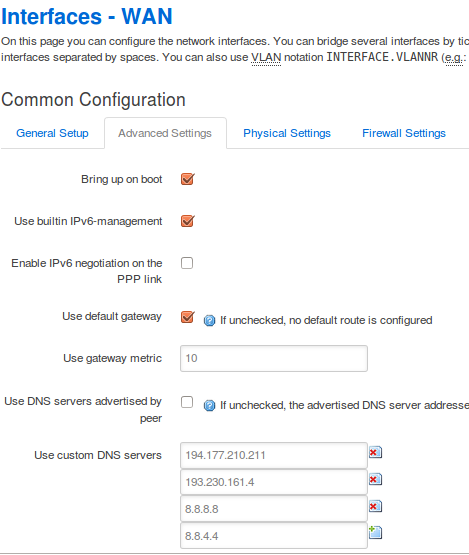
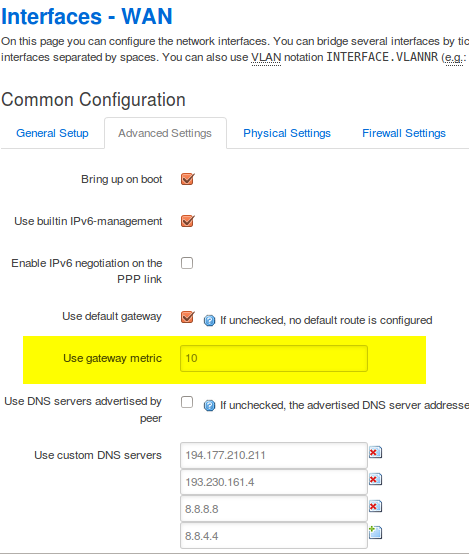
added blog posts for griggi setup, sqm + load balance, AP setup and printer setup in separate inter-linked blogs

Changed region(s): [[0.0299, 0.582, 0.9254, 0.7045]]

diff --git a/_layouts/post.html b/_layouts/post.html
@@ -1,6 +1,30 @@
 ---
 layout: default
 ---
+<style>
+  img { border : 0.5px solid #bababa; max-width:100%; }
+  blockquote {
+    min-height: 20px;
+    padding: 19px;
+    margin-bottom: 20px;
+    background-color: #f5f5f5;
+    border: 1px solid #e3e3e3;
+    border-radius: 4px;
+    -webkit-box-shadow: inset 0 1px 1px rgba(0, 0, 0, .05);
+    box-shadow: inset 0 1px 1px rgba(0, 0, 0, .05);
+    font-size: 80%;
+  }
+  .alert {
+         color: #8a6d3b;
+         background-color: #fcf8e3;
+         border-color: #faebcc;  
+         padding: 15px;
+         margin-bottom: 20px;
+         border: 1px solid transparent;
+         border-radius: 4px;
+    font-size: 80%;
+  }
+</style>
 <article {% if page.feature-img %}class="feature-image"{% endif %}>
   <header style="background-image: url('{{ site.baseurl }}/{{ page.feature-img }}')">
     <h1 class="title">{{ page.title }}</h1>

diff --git a/_posts/2016-12-02-griggi-setup.md b/_posts/2016-12-02-griggi-setup.md
@@ -3,10 +3,6 @@ layout: post
 title: How to setup Griggi on your Openwrt router
 excerpt: Griggi can be installed on any Openwrt router. Follow the steps on this article to do so.
 ---
-<p style="text-align:center">
-	<i class="fa fa-wrench fa-6" style="font-size: 10em; color: #62cb31"></i>
-</p>
-
 Griggi is developed as package(s) that can be compiled & installed on any unix based operating system. Openwrt seems to be the most popular flavor of opensource router OS now a days, so we provide Griggi pre-bundled Openwrt firmware image that you can directly flash on your Openwrt router. 
 
 > To know if your router supports Openwrt, head over to [Openwrt Table of Hardware](https://wiki.openwrt.org/toh/start) & search for your router model
@@ -23,9 +19,6 @@ To get Griggi pre-bundled Openwrt firmware image on your router
 * head over to [app.griggi.com](http://app.griggi.com) & login with your phone number
 * navigate to 'SETUP' option on the left sidebar
 * choose 'Add a Router', enter details & download firmware for your newly added router
-<style>
-  img { border : 0.5px solid #bababa; max-width:100%; }
-</style>
 <img src="/images/setup/login.png" style="width:400px;">
 <img src="/images/setup/setup.png" style="width:200px"><br/>
 <img src="/images/setup/router-list.png" style="width:300px;">
@@ -44,10 +37,14 @@ Power your router. Connect to it through internet cable or WiFi. Navigate to the
 > If it is a new router, the login credentials are on the sticker at the back of the router
 
 Post login, locate the **firmware upgrade** page as shown below. Upload the firmware downloaded in previous step. 
+<div class="alert">
+ <p>Ensure that power does not go off while the firmware uploads. If it does, it might <i>brick</i> your router.</p>
+ <p>There is a high chance you have TP Link router if you following this guide. You can debrick your router by following <a href="http://www.trishtech.com/2015/06/unbrick-tplink-wr740n-wifi-router" >this guide</a>.</p>
+ <p>Feel free to email us at team.griggi@gmail.com if you need any personalized help.</p>
+</div>
 
 <img src="http://dslrcontroller.com/guide-wifi_mr3040/setup-flash.png" style="width: 600px"><br/> 
 
-> Ensure that power does not go off while the firmware uploads. If it does, it might *brick* your router
 
 Post flasing the new firmware, your router will reboot. Wait for the WiFi to come back up. There is a WiFi named **griggi** to which you can go ahead & connect.
 
@@ -57,13 +54,15 @@ Post flasing the new firmware, your router will reboot. Wait for the WiFi to com
 
 A few configuration need to be manually done to router before you start to use Griggi. 
 
-> If you navigate to **http://192.168.7.1** & dont see login page, we have not bundled luci in the Openwrt image as the router has too low flash space. You may ignore the rest of the configuration steps. 
-
 #### 1. Setup admin password ####
 
 Navigate to htttp://192.168.7.1, you will see Openwrt login page. There is no password by default. Setup a password first thing.
 
 <img src="/images/setup/set-password.png" style="width: 600px"><br/> 
+
+If you dont see a login page at http://192.168.7.1 - that means we did not bundle Luci (Openwrt admin dashboard), mostly because the router flash size is too small to support that. Openwrt has, by default, telnet enabled. Telnet to your router with `telnet 192.168.7.1`, set password by running `passwd` command & you have the password changed. 
+
+Openwrt disables telnet once you have set root password. You can now ssh into the router with `ssh root@192.168.7.1` & the password you have set.
 
 #### 2. PPPoE settings (selectively applicable) ####
 
@@ -78,55 +77,50 @@ Griggi does not work well with another authentication system. There is a way for
 
 * Enter the username & password provided by the ISP in the appropriate field & save the settings. 
 
+* For those with **no admin dashboard**, ssh into the router & edit `/etc/config/network` file. The wan port by default is set to **dhcp**. Update proto to **pppoe** & append username & password provided by your ISP as below.
+
+<blockquote><small>
+<pre>
+  config interface 'wan'
+    .
+    .
+    <strike>option proto 'dhcp'</strike>
+    option proto 'pppoe'
+    option username 'xxxx'
+    option password 'xxxx'
+</pre>
+</small></blockquote>
+
 > To test if your settings are working, plug in the ISP line in the WAN interface, connect to the WiFi (or through wire if you are on 1043ND), you should see griggi authentication popup. If it does not, try manually going to griggi.com on the browser & you should see the login page.<br/><br/> If none of this happen, either there is software or hardware configuration problem. Sort this out before proceeding.
 
 ### 4. Advance Settings ###
 
-> Advance settings are applicable to only those devices that have router dashboard showing up at http://192.168.7.1
+To configure traffic prioritzation & load balancing on your Griggi router, head over to [this blog post](/2016/12/02/traffic-prioritization-load-balance.html) 
 
-If you have come this far, congrats. You have Griggi router setup in a usable state. You will be able to limit data at user level. But there are a few other cool things that Griggi can do. 
+If you have a big setup, you might be looking to setup Access Points (hence referred to AP) to make your WiFi reach everywhere. Moreover, each router comes with limited number of people it can support on its WiFi. So you might be looking to add more such devices. Also, if you have TP Link 1043ND, you need at least one AP for the WiFi signal to be available. Head over to [this post](/2016/12/11/how-to-extend-wifi.html) to do so.
 
-* automatically prioritizing traffic so that bulk traffic (download, youtube, torrents) dont clog your internet bandwidth
-* Connect multiple ISPs for load balancing & failover to have 100% internet uptime.
+### 5. Allocate Data ###
 
-#### 1. Configure Prioritization ####
+The settings you did above are on Griggi router. Most of the times, you do not need to edit any of the above stuff & they are good for one time setup. 
 
-You need to be aware of your general upload & download speed of your ISP which prioritization software uses to avoid bandwidth clogging. 
+What you need to on regular basis - is to keep an eye on data usage at user level, first time data allocation post Griggi setup to all the folks, adding data for folks who come in later, deleting entry for folks who leave the premise etc. 
 
-If you are not sure, try running speedtest & note upload and download values. 
+This can be done on Griggi dashboard - [app.griggi.com](http://app.griggi.com). By default whoever sets up the Griggi router is the admin. Once you login into your Griggi dashboard, you see all the data in your account from which you can give data to other folks **through their mobile number**.  Look for **Give Data** button on the dashboard.
 
-* Navigate to **Network** -> **SQM QoS**
+By default, when a new device connects to Griggi WiFi, there is a popup that comes (like how you see in Airport) where the user is suppose to enter his phone number, verify OTP, set his email & password. If you as admin has allocated data to the phone number, his internet will work, else it wont. He gets his own dashboard, pretty much like yours, on which he can view how much data he has consumed. The consumed data resets to 0 at the start of billing cycle. 
 
-<img src="/images/setup/sqm-qos-speed.png" style="width: 400px"><br/>
+> The login on a device needs to be done only once. So unlike a cafe or airport when you see a login screen everytime you enter the premise, Griggi router identifies a device on which login is done already & WiFi connects seamlessly like home/office WiFi
 
-* Enable SQM
+Some old OS dont show popup. Also, the device will not get a popup if connected through LAN interface. In that case, the user need to manually go to http://griggi.com to login. 
 
-* Figure which interface is the WAN interface by navigating to Network -> Interfaces. It usually is eth0 or eth1. Select the WAN interface in SQM.
+By default, the device once identified against a phone number, gets tied to the phone number. The data consumption is aggregate of all devices that belong to the user. The user is identified by his phone number. During onboarding, the user sets his email & its easier for you as admin to identify the user based on his email (than phone number). 
 
-* Specify download & upload speed in kbps. 1 Mbps should go as 1000. Save settings. 
+On data allocation to a user, he gets SMS notification. Once a user data is over, he also gets a SMS notification. Email notification is sent to the user on every GB of data consumed so that he stays aware of his usage. At any time, the user could head over to his Griggi dashboard to view his current usage. 
 
-> To test if your prioritization is configured right, launch a terminal & run a continuous ping to google.com . Notice the delay in ping. Start a long download, youtube video or speedtest. The delay in ping should not increase significantly. Neither there should be any ping packet drops.<br/><br/>You can run the same test after disabling SQM. You should see difference in ping times.
+Like admin, a user can give data to any other user from his quota. By default, the admin gets all the FUP quota from which he assign data to folks. The same flow applies to the users who eventually give data from their quota to others. Total data in the system stays constant & decided by the FUP set by the admin while adding new router. 
 
+Enough of gyan. Its time for you to allocate data to folks. Remember, there is a guest mode too that you can activate when you have too many folks checking in & you dont want to take hassle of allocating data to each user.
 
-#### 2. Configure Load Balance ####
+Happy 'Griggi'ing . 
 
-You can plug 2 internet lines to a Griggi router. The traffic gets divided on two lines based on metric(weight) that you set on each of the wan interface. Eg. if one interface support 100 Mbps speed & the other 10 Mbps, you should put metric 10 for 100 Mbps line & 1 for 10 Mbps line. 
-
-In case if one of the internet line goes down, all traffic starts to route through the other line. 
-
-> In Griggi router Load Balancer is enabled by default. 
-> The first LAN port (port marked 1) is the secondary internet port which we have named as WWAN.
-> All you need to do is follow below steps to assign metrics to WAN and WWAN.
-
-* Setup interface metric by navigating to **Networks** -> **Interfaces** -> WAN/WWAN -> Advanced Settings . Set **Use gateway metric** for the appropriate metric value for the interface.
-
-<img src="/images/setup/set-metric.png" style="width: 400px"><br/>
-
-> To test if load balance is configured right, plug internet lines in both WAN & WWAN ports. 
-
-* Navigate to **Network** -> **Load Balance**
-
-> The Load Balance on router dashboard should show both interface green. 
-
-<img src="/images/setup/mwan-status.png" style="width: 400px"><br/>
-
+> If you have printers, internal server or IoT devices in your setup, they would need some configuration on Griggi for them to work. Steps are on [this blog post](/2016/12/02/griggi-printer-port-forward.html)

diff --git a/_posts/2016-12-11-how-to-extend-wifi.md b/_posts/2016-12-11-how-to-extend-wifi.md
@@ -1,0 +1,74 @@
+---
+layout: post
+title: How to Setup Access Points to extend WiFi range
+excerpt: Access Point setup is needed to cover a space that can not be entirely covered by one WiFi device alone. This blog talks about setting up Access Points with a Griggi router but steps are generic enough & will work with any router.
+---
+
+Access Points (also referred as AP) are devices that are hooked to the main router (through wire or wirelessly) & solely work to either extend WiFi network or support more number of devices than a single router/access point can support. 
+
+AP are also called **wireless or wired bridge** in more technical terms. 
+
+Unlike office or large corporates or WiFi enabled institutes that have an extensive AP deployment, it can be done for small office or even your home. Typical usecase is your main router being set in a hall/room whose WiFi does not reach to yourroom that is upstairs. You could setup an AP somewhere between, hook it up wirelessly (or with wire) to the main router & eventually this AP will extend the WiFi for your rooms that were earlier could not be reached by your router.
+
+APs are dumb device that do only WiFi extending. All other network related things like IP assignment, traffic handling, NAT etc is done by the router itself. Some APs do provide a way to limit bandwidth at device level etc in enterprise grade APs, but guess that is something your network consultant will be able to guide you through. 
+
+### Types of APs
+
+1. **Enterprise Grade** - these are devices explicitly sold as Access Point. [Ubiquiti UnFi series](https://www.ubnt.com/unifi/unifi-ap/) is one good range of AP that starts at around $100 . One AP is able to take around 100 devices. 
+
+2. **Router converted to AP** - you could convert any (home) router to work as AP. The advantage of AP configuration is, you could wirelessly extend the WiFi network which you will not be in the default state. 
+
+### AP setup 
+
+The AP needs connection to main router through a ethernet wire or without it (wireless). The wired setup has **advantage of high speed**. If you have an internet speed > 50-60 Mbps, you should go for wired setup as the traffic between router & AP will get throttled to that value because of the speed limit in 2.4 Ghz WiFi channel. 
+
+The wireless setup has advantage that there is no issue of laying cable connecting the router to the AP. Although, you need to ensure that an AP has WiFi reach from at least another AP which in-turn has access to the router (directly or through another AP). Else, you might have a set of APs that might be able to interact with each other but not able to send/receive traffic from the router. 
+
+Each AP can have its own WiFi SSID & password. Usually, its advised to keep the same SSID & password across APs as it will lead to less confusion for your users to decide which WiFi to connect to. 
+
+**1. Wired AP setup (wired bridge)**
+
+> The wired AP should be connected to main router **through one of the LAN port of the main router**
+
+If you have Enterprise grade APs, you are set here. They usually come with one port & you need to just jack in the ethernet cable into it. There could be multiple ports too in which you need to figure out the right one. 
+
+If you have a consumer grade router that you want to convert & use as wired AP, you first need to **disable DHCP** (which in turn will disable NAT also) on the router. You should be able to do the same by logging into router admin dashboard. 
+
+> Once you have disabled DHCP on your router, you will not get IP once you connect to the router WiFi. Hence there is no way to reach admin dashboard except to reset your router. Most routers have a reset button or pin hole to do so.  
+
+You have to connect ethernet wire into **one of the LAN ports** & not WAN port of the newly turned router turned AP.
+
+Note that you could still use router without DHCP disabling, in which case, the wire from the router to the AP is plugged into the WAN port. In regular setup, this would just work fine. 
+
+> With Griggi on the main router, the setup where DHCP isnt disabled & wire plugged into the WAN port is going to hurt you. Reason being, for the data accounting at user level to work, the mac address of the connecting device should reach Griggi router. In this setup, the Griggi router sees the mac address of the AP router & hence whoever logs in first time on the AP WiFi, all traffic on this AP router will start to get reflected on that person account. 
+
+**Note** - to **test wired bridging** with Griggi router, you should connect to the AP WiFi with a device *that has already been connected to Griggi WiFi before*. If you still see a login page, that means there is a configuration issue. To double check, look at the mac address in the login page url. The mac address should be of the AP. 
+
+**2. Wireless AP setup (wireless bridge)**
+
+This mode is usually discouraged in enterprise AP setup. If you investing into enterprise AP, the assumption is, you are aiming at providing high speed internet & as explained above, hooking up AP to the main router through WiFi is going to throttle internet speed. 
+
+Usually this setup is preferred with the cheap home router turned AP, typically because you are interested in extending WiFi without the hassle of wiring & not worrying much about speed. 
+
+Most of the home routers come with **WDS client setup**. WDS stands for wireless distribution system. Your main router to which you are going to hookup the AP should have WDS support turned on. This is a one step process & preferred process to enable wireless bridging. Log into your router dashboard & you should see this option under 'Wireless' section . You should see an option to scan available WiFi. Select your main router WiFi among the scan result (you would need to provide the main WiFi password) & once you have done this, you are set.
+
+<img src="/images/setup/wds-bridging.png" style="width:800px"/><br/>
+
+> Its a little tricky to test wireless bridging as both main router & the AP has the same WiFi name. You can either install the 'Wifi Analyzer' android app. Open the app & select 'channel graph' to see the graph of all WiFi SSIDs. Your WiFi should show up twice on the graph.  
+
+<img src="/images/setup/wifi-analyzer.jpg" style="width:200px"/><br/>
+
+The other way you could test is to go to a location where you had earlier not received the WiFi signal from the main router but can potentially get the WiFi from the AP. 
+
+
+### Running out of ports in main router ?
+
+If you have done wired setup, you would soon realize that if you are connecting APs to the main router, you could only connect APs as many as LAN port available on your main router. 
+
+To connect more APs, you could try one of the setup
+
+1. You can connect a new AP to one of the LAN port of existing AP. You do not need to draw wire from the router all the time.
+
+2. You could get a switch. They cost as less as $5 in the market. You could connect one port of the switch from the LAN port of the router & rest of the ports to one AP each. 
+
+> You need to note that you can not have wires > 100m in length between router & AP or between 2 APs, as it would lead to heavy signal loss. You should either get an AP or a switch within less than 100m hop to counter this problem.

diff --git a/_posts/2016-12-02-traffic-prioritization-load-balance.md b/_posts/2016-12-02-traffic-prioritization-load-balance.md
@@ -1,0 +1,46 @@
+---
+layout: post
+title: Traffic Prioritization & Load Balance on Griggi Router
+excerpt: Some of the advance features that Griggi router support need manual configuration. This post talks about those steps.
+---
+
+If you have come this far, congrats. You have Griggi router setup in a usable state. You will be able to limit data at user level. But there are a few other cool things that Griggi can do. This blog post will let you do those setup.
+
+* automatically prioritizing traffic so that bulk traffic (download, youtube, torrents) dont clog your internet bandwidth
+* Connect multiple ISPs for load balancing & failover to have 100% internet uptime.
+
+> Note that not all Griggi routers are capable of doing the advance things above. If you have a Griggi router that does not have router dashboard coming up at http://192.168.7.1, your router probably will not support the features below as the space on the router is too less to bundle some of these features.
+
+#### 1. Configure Prioritization ####
+
+You need to be aware of your general upload & download speed of your ISP which prioritization software uses to avoid bandwidth clogging. 
+
+If you are not sure, try running speedtest & note upload and download values. While filling upload & download values below, fill 90% of the values you got from speedtest. Eg. if download speed shows up as  
+
+* Navigate to **Network** -> **SQM QoS**
+
+<img src="/images/setup/sqm-qos-speed.png" style="width: 400px"><br/>
+
+* Enable SQM
+
+* Figure which interface is the WAN interface by navigating to Network -> Interfaces. It usually is eth0 or eth1. Select the WAN interface in SQM.
+
+* Specify download & upload speed in kbps. 1 Mbps should go as 1000. Save settings. 
+
+> To test if your prioritization is configured right, launch a terminal & run a continuous ping to google.com . Notice the delay in ping. Start a long download, youtube video or speedtest. The delay in ping should not increase significantly. Neither there should be any ping packet drops.<br/><br/>You can run the same test after disabling SQM. You should see difference in ping times.
+
+
+#### 2. Configure Load Balance ####
+
+You can plug 2 internet lines to a Griggi router. The traffic gets divided on two lines based on metric(weight) that you set on each of the wan interface. Eg. if one interface support 100 Mbps speed & the other 10 Mbps, you should put metric 10 for 100 Mbps line & 1 for 10 Mbps line. 
+
+In case if one of the internet line goes down, all traffic starts to route through the other line. 
+
+In Griggi router Load Balancer is enabled by default. The first LAN port (port marked 1) is the secondary internet port which we have named as WWAN. All you need to do is follow below steps to assign metrics to WAN and WWAN.
+
+* Setup interface metric by navigating to **Networks** -> **Interfaces** -> **WAN/WWAN** -> **Advanced Settings** . Set **Use gateway metric** for the appropriate metric value for the interface.
+
+<img src="/images/setup/set-metric.png" style="width: 400px"><br/>
+
+> To test if load balance is configured right, plug internet lines in both WAN & WWAN ports. Navigate to **Network** -> **Load Balance** & you should see both wan interfaces green. <br/><br/> <img src="/images/setup/mwan-status.png" style="width: 400px"><br/><br/>Note that now that you have two external interfaces, you should configure traffic prioritization for WWAN interface as well. Navigate to **Network** -> **SQM QoS**, click on **Add Interface** & follow steps under 'Configure Prioritization' above for the WWAN interface 
+

diff --git a/_posts/2016-12-02-griggi-printer-port-forward.md b/_posts/2016-12-02-griggi-printer-port-forward.md
@@ -1,0 +1,58 @@
+---
+layout: post
+title: Printer, CCTV, IoT device setup on Griggi 
+excerpt: Steps to setup IoT devices with Griggi as Griggi by default blocks internet for any device that can not do manual authentication
+---
+
+You might have devices like printer, CCTV camera, access control device or any other IoT that need communicating with internet but does not have a way to load up the login page. These devices need whitelisting in Griggi router for their internet to work
+
+> Griggi does not block any internal traffic. Some network printer need an internet connection else their setup does not complete & they are unable to serve print commands. Hence you need this step.  
+
+Such devices need explicit by-passing. You need the mac-address of such devices & follow the steps below
+
+1. ssh into Griggi router - `ssh root@192.168.7.1` . On password prompt, enter the router admin password that you had set in Step 3. 
+
+2. Open file `/etc/wifidog.conf` in `vi` editor as that is the only editor installed in Griggi router by default. 
+
+3. Search for `TrustedMACList` in the file. The line is commented out with a leading '#'. Comment it back in & enter the comma separated mac address of devices that you need whitelisting.
+
+<blockquote>
+  <pre>
+  <strike> # </strike>TrustedMACList xx:xx:xx:xx:xx:xx,yy:yy:yy:yy:yy:yy
+  </pre>
+</blockquote>
+
+Please note, once you whitelist the device, Griggi will not do data accounting for it. So exercise this option with care. 
+
+Once done, reboot the router for the change to take effect. To test, go to the device whose mac-address is added & check if it could connect to internet. 
+
+
+### Access internal server or CCTV camera from outside ###
+
+You might have an internal server that need to be accessed from outside your setup. This applies to **CCTV camera** as well where you need to access camera from outside. 
+
+For it to work, you first need to assign a static private IP to the devices based on their mac address & then do a port forward to the specified IP address. 
+
+Eg - if you assign a private IP 192.168.7.2 to CCTV camera & your CCTV camera is accessible at port 8080, then you need to setup port forward on the router for router IP port 80 to 192.168.7.2 8080 
+
+Follow the steps at [https://wiki.openwrt.org/doc/howto/port.forwarding](https://wiki.openwrt.org/doc/howto/port.forwarding). You need to edit the `/etc/config/firewall` file with the part below
+
+<blockquote>
+<pre>
+config 'redirect'
+        option 'name' 'any name here'
+        option 'src' 'wan'
+        option 'proto' 'tcp' #this is comment - mostly the protocol is going to be tcp
+        option 'src_dport' '80' #outside port
+        option 'dest_ip' '192.168.7.2' #private ip
+        option 'dest_port' '8080' #inside port
+        option 'target' 'DNAT'
+        option 'dest' 'lan'
+</pre>
+</blockquote>
+
+Restart router. To test if the above setup worked, try accessing http://_your router public ip_:80 from outside & you should see the server page. From outside, it means you should not be connected to Griggi WiFi / internal network. Switch over to 3G on your phone & then try accessing the url. 
+
+> Once all this is working, keep a copy of your settings at **System** -> **Backup/Flash Firmware** . Use the option **Download Backup** . If you ended up resetting your router, you could revert back to your settings by loading the backup file in one go.
+
+<img src="/images/setup/config-backup.jpg" style="width: 600px"><br/>
